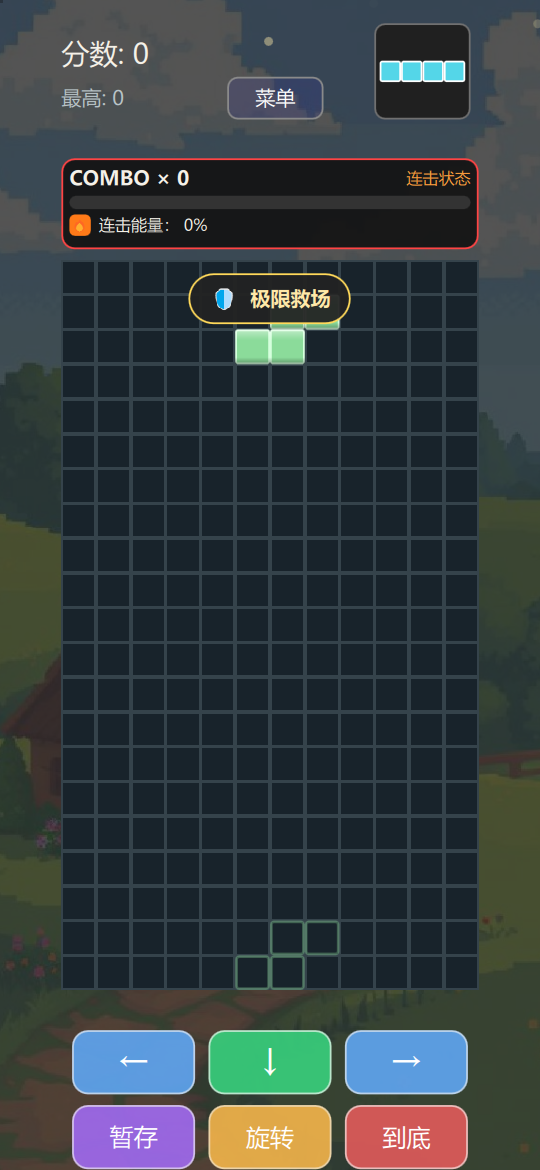
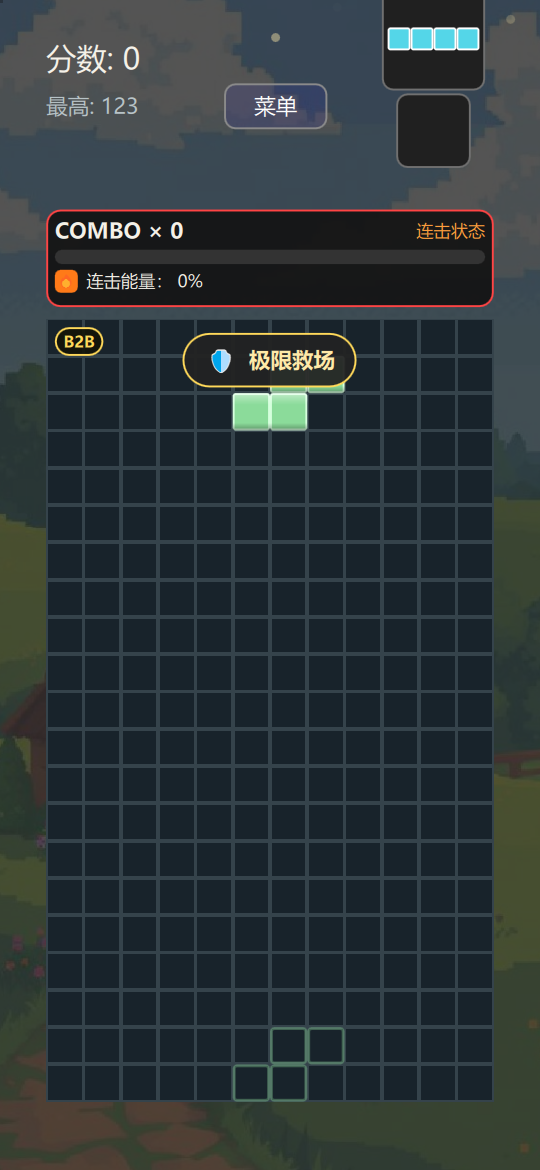
B2B 待命表达改版：撤销待命时的金色呼吸边框（仅连击≥2显示燃烧边框，颜色不再被B2B抢占），新增棋盘左上角「B2B」金色角标(z:30, 待命态常驻、连击中由边框表达)；demo badge场景加B2B待命——截图shots/p56/badge.png；补丁v11

diff --git a/Main.qml b/Main.qml
@@ -835,6 +835,8 @@ ApplicationWindow {
             } else if (demoScene === "badge") {
                 isPaused = false
                 if (demoStep === 0) {
+                    b2bActive = true
+                    comboStreak = 0
                     showToast("🛡", "极限救场")
                 } else if (demoStep === 1) {
                     shoot("badge")
@@ -2353,6 +2355,29 @@ ApplicationWindow {
                 styleColor: "#000000"
             }
 
+            // B2B 待命角标：上一次消行为四消，×1.5 加成待命（连击 ≥2 时由燃烧边框表达）
+            Rectangle {
+                visible: b2bActive && comboStreak < 2 && !isGameOver
+                anchors.top: parent.top
+                anchors.left: parent.left
+                anchors.margins: 6
+                z: 30   // 声明序在网格画布之前，需提层否则被不透明格底盖住
+                width: b2bTagText.implicitWidth + 12
+                height: 20
+                radius: 10
+                color: "#E6141408"
+                border.color: "#ffd95a"
+                border.width: 1
+                Text {
+                    id: b2bTagText
+                    anchors.centerIn: parent
+                    text: "B2B"
+                    color: "#ffd95a"
+                    font.pixelSize: 11
+                    font.bold: true
+                }
+            }
+
             // 1. 静态棋盘网格（不参与消行回弹）
             Repeater {
                 model: rows
@@ -2821,23 +2846,23 @@ ApplicationWindow {
                 velocity: AngleDirection { angle: 270; angleVariation: 48; magnitude: 190; magnitudeVariation: 90 }
             }
 
-            // 13. 连击燃烧边框（分级：2-3 橙 / 4-6 红橙 / 7+ 烈焰红；B2B 时金色优先）
+            // 13. 连击燃烧边框（分级：2-3 橙 / 4-6 红橙 / 7+ 烈焰红）。
+            // B2B 待命不占边框——由左上角「B2B」金色角标表达
             Rectangle {
                 anchors.fill: parent
                 color: "transparent"
                 radius: 2
                 border.width: comboStreak >= 7 ? 8 : comboStreak >= 4 ? 6 : 4
                 border.color: {
-                    if (b2bActive) return "#ffd95a"
                     if (comboStreak >= 7) return "#ff2a2a"
                     if (comboStreak >= 4) return "#ff5a2a"
                     return "#ff7a18"
                 }
-                visible: comboStreak >= 2 || b2bActive
+                visible: comboStreak >= 2
                 opacity: 0.6
 
                 SequentialAnimation on opacity {
-                    running: (comboStreak >= 2 || b2bActive) && !isPaused && !reduceMotion
+                    running: comboStreak >= 2 && !isPaused && !reduceMotion
                     loops: Animation.Infinite
                     NumberAnimation {
                         to: 0.95

diff --git a/leaderboard/apk/patch/Main.qml b/leaderboard/apk/patch/Main.qml
@@ -835,6 +835,8 @@ ApplicationWindow {
             } else if (demoScene === "badge") {
                 isPaused = false
                 if (demoStep === 0) {
+                    b2bActive = true
+                    comboStreak = 0
                     showToast("🛡", "极限救场")
                 } else if (demoStep === 1) {
                     shoot("badge")
@@ -2353,6 +2355,29 @@ ApplicationWindow {
                 styleColor: "#000000"
             }
 
+            // B2B 待命角标：上一次消行为四消，×1.5 加成待命（连击 ≥2 时由燃烧边框表达）
+            Rectangle {
+                visible: b2bActive && comboStreak < 2 && !isGameOver
+                anchors.top: parent.top
+                anchors.left: parent.left
+                anchors.margins: 6
+                z: 30   // 声明序在网格画布之前，需提层否则被不透明格底盖住
+                width: b2bTagText.implicitWidth + 12
+                height: 20
+                radius: 10
+                color: "#E6141408"
+                border.color: "#ffd95a"
+                border.width: 1
+                Text {
+                    id: b2bTagText
+                    anchors.centerIn: parent
+                    text: "B2B"
+                    color: "#ffd95a"
+                    font.pixelSize: 11
+                    font.bold: true
+                }
+            }
+
             // 1. 静态棋盘网格（不参与消行回弹）
             Repeater {
                 model: rows
@@ -2821,23 +2846,23 @@ ApplicationWindow {
                 velocity: AngleDirection { angle: 270; angleVariation: 48; magnitude: 190; magnitudeVariation: 90 }
             }
 
-            // 13. 连击燃烧边框（分级：2-3 橙 / 4-6 红橙 / 7+ 烈焰红；B2B 时金色优先）
+            // 13. 连击燃烧边框（分级：2-3 橙 / 4-6 红橙 / 7+ 烈焰红）。
+            // B2B 待命不占边框——由左上角「B2B」金色角标表达
             Rectangle {
                 anchors.fill: parent
                 color: "transparent"
                 radius: 2
                 border.width: comboStreak >= 7 ? 8 : comboStreak >= 4 ? 6 : 4
                 border.color: {
-                    if (b2bActive) return "#ffd95a"
                     if (comboStreak >= 7) return "#ff2a2a"
                     if (comboStreak >= 4) return "#ff5a2a"
                     return "#ff7a18"
                 }
-                visible: comboStreak >= 2 || b2bActive
+                visible: comboStreak >= 2
                 opacity: 0.6
 
                 SequentialAnimation on opacity {
-                    running: (comboStreak >= 2 || b2bActive) && !isPaused && !reduceMotion
+                    running: comboStreak >= 2 && !isPaused && !reduceMotion
                     loops: Animation.Infinite
                     NumberAnimation {
                         to: 0.95
